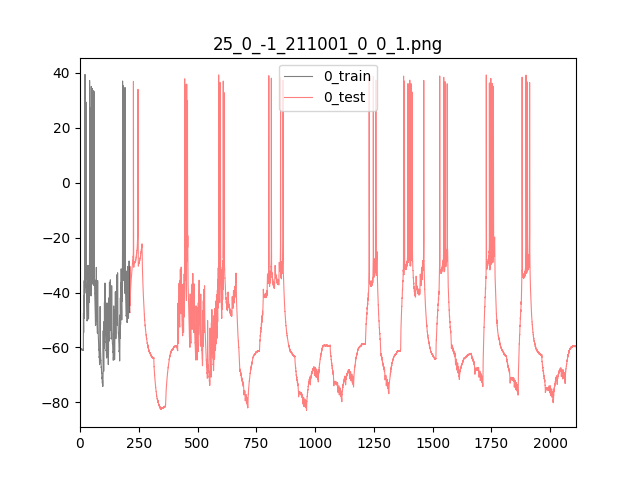
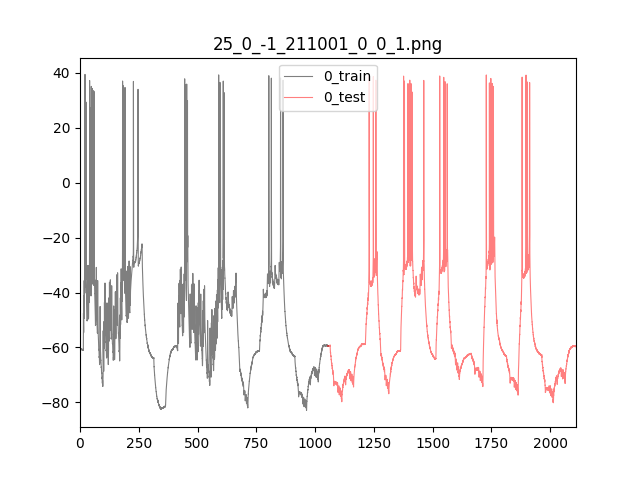
Final graph generation changes for presentation.

diff --git a/src/main.cpp b/src/main.cpp
@@ -708,68 +708,71 @@ main( [[maybe_unused]] int argc, [[maybe_unused]] char * argv[] ) {
         { 0, 0 }, { 1, 0 }, { 2, 0 }
     };
     const bool                 use_const{ true };
-    const T /*alpha{ 5E-2 },*/ constant{ 1 };
-    const UTIL::Index d{ 2 }, /*k{ 3 }, s{ 5 }, p{ 2 },*/ data_stride{ 4 };
-    const std::vector<UTIL::Index> train_targets{ 1 };
+    const T /*alpha{ 1E-4 },*/ constant{ 1 };
+    const UTIL::Index d{ 2 }, /*k{ 1 }, s{ 1 }, p{ 3 },*/ data_stride{ 4 };
+    const std::vector<UTIL::Index> train_targets{ 1, 2, 3 };
 
-    const std::vector<UTIL::Index> kvals{ 1, 2, 3, 4 },
-        svals{ 1, 2, 3, 4, 5, 6, 7, 8, 9, 10 }, pvals{ 1, 2, 3 };
+    const std::vector<UTIL::Index> kvals{ 1, 2, 3 },
+        svals{ 1,  2,  3,  4,  5,  6,  7,  8,  9,  10,
+               11, 12, 13, 14, 15, 16, 17, 18, 19, 20 },
+        pvals{ 2, 3, 4 };
     const std::vector<T> alphavals{ 10, 1, .1, .01, .001, 0.0001, 0.00001 };
 
     UTIL::Index best_k{ 1 }, best_s{ 1 }, best_p{ 1 }, best_alpha{ 10 };
     T           best_rmse{ 1000000000000. };
 
-    // for ( const auto alpha : alphavals ) {
-    //     for ( const auto k : kvals ) {
-    //         for ( const auto s : svals ) {
-    //             for ( const auto p : pvals ) {
-    //                 std::cout << std::format(
-    //                     "d = {}, k = {}, s = {}, p = {}, alpha = {}\n", d, k,
-    //                     s, p, alpha );
+    for ( const auto alpha : alphavals ) {
+        for ( const auto k : kvals ) {
+            for ( const auto s : svals ) {
+                for ( const auto p : pvals ) {
+                    std::cout << std::format(
+                        "d = {}, k = {}, s = {}, p = {}, alpha = {}\n", d, k, s,
+                        p, alpha );
 
-    //                const auto [train_pair, test_pair] =
-    //                    data_split<T>( data_pool, 0.75, feature_shape,
-    //                                   NVAR::warmup_offset( k, s ),
-    //                                   data_stride, UTIL::Standardizer<T>{} );
-    //                const auto [train_samples, train_labels] = train_pair;
-    //                const auto [test_warmup, test_labels] = test_pair;
+                    const auto [train_pair, test_pair] =
+                        data_split<T>( data_pool, 0.75, feature_shape,
+                                       NVAR::warmup_offset( k, s ), data_stride,
+                                       UTIL::Standardizer<T>{} );
+                    const auto [train_samples, train_labels] = train_pair;
+                    const auto [test_warmup, test_labels] = test_pair;
 
-    //                NVAR::NVAR<T, NVAR::nonlinear_t::poly> test(
-    //                    train_samples.rightCols( d ),
-    //                    train_labels.rightCols( d ), d, k, s, p, use_const,
-    //                    constant, train_targets, UTIL::L2Solver<T>( alpha ),
-    //                    false );
+                    NVAR::NVAR<T, NVAR::nonlinear_t::poly> test(
+                        train_samples.rightCols( d ),
+                        train_labels.rightCols( d ), d, k, s, p, use_const,
+                        constant, train_targets, UTIL::L2Solver<T>( alpha ),
+                        false );
 
 
-    //                const auto forecast{ test.forecast(
-    //                    test_warmup.rightCols( d ),
-    //                    test_labels.rightCols( d ) ) };
+                    const auto forecast{ test.forecast(
+                        test_warmup.rightCols( d ),
+                        test_labels.rightCols( d ) ) };
 
-    //                const auto rmse{ UTIL::RMSE<T>(
-    //                    forecast, test_labels.rightCols( d ) ) };
-    //                std::cout << "rmse: " << rmse << std::endl;
-    //                if ( rmse( 1 ) < best_rmse ) {
-    //                    best_rmse = rmse( 1 );
-    //                    best_k = k;
-    //                    best_s = s;
-    //                    best_p = p;
-    //                    best_alpha = alpha;
-    //                }
-    //            }
-    //        }
-    //    }
-    //}
+                    const auto rmse{ UTIL::RMSE<T>(
+                        forecast, test_labels.rightCols( d ) ) };
+                    std::cout << "rmse: " << rmse << std::endl;
+                    if ( rmse( 1 ) < best_rmse ) {
+                        best_rmse = rmse( 1 );
+                        best_k = k;
+                        best_s = s;
+                        best_p = p;
+                        best_alpha = alpha;
+                    }
+                }
+            }
+        }
+    }
 
-    const auto [train_pair, test_pair] = data_split<T>(
-        data_pool, 0.75, feature_shape, NVAR::warmup_offset( best_k, best_s ),
-        data_stride, UTIL::Standardizer<T>{} );
+    const auto [train_pair, test_pair] =
+        data_split<T>( data_pool, 0.75, feature_shape,
+                       NVAR::warmup_offset( best_k, best_s /*k, s*/ ),
+                       data_stride, UTIL::Standardizer<T>{} );
     const auto [train_samples, train_labels] = train_pair;
     const auto [test_warmup, test_labels] = test_pair;
 
     NVAR::NVAR<T, NVAR::nonlinear_t::poly> test(
         train_samples.rightCols( d ), train_labels.rightCols( d ), d, best_k,
-        best_s, best_p, use_const, constant, train_targets,
-        UTIL::L2Solver<T>( best_alpha ), true, { "I", "V" },
+        best_s, best_p, /*k, s, p,*/ use_const, constant, train_targets,
+        UTIL::L2Solver<T>( best_alpha /*alpha*/ ), true, { "I", "V" },
         "../data/forecast_data/tmp.csv" );
 
     const auto forecast{ test.forecast( test_warmup.rightCols( d ),
@@ -911,9 +914,9 @@ main( [[maybe_unused]] int argc, [[maybe_unused]] char * argv[] ) {
     const auto doublescroll_test_data{ doublescroll_test_csv.atv() };
 
     const bool                     use_const{ false };
-    const UTIL::Index              d2{ 3 }, k2{ 3 }, s2{ 2 }, p2{ 3 };
+    const UTIL::Index              d2{ 3 }, k2{ 2 }, s2{ 2 }, p2{ 3 };
     const T                        alpha{ 1E-1 }, constant{ 1 };
-    const std::vector<UTIL::Index> targets{ 0, 2 };
+    const std::vector<UTIL::Index> targets{ 2 };
     std::cout << std::format(
         "doublescroll_train_data: {}\n",
         UTIL::mat_shape_str<double, -1, -1>( doublescroll_train_data ) );

diff --git a/data/gen_train_test_data.py b/data/gen_train_test_data.py
@@ -1,37 +1,52 @@
 import os
 from sklearn.model_selection import KFold, TimeSeriesSplit, ShuffleSplit, RepeatedKFold
+import matplotlib as mpl
 import matplotlib.pyplot as plt
 import re
 import numpy as np
 
 
-show_plots = False
+mpl.rcParams["font.family"] = "Times New Roman"
+mpl.rcParams["axes.titlesize"] = 24
+mpl.rcParams["axes.labelsize"] = 20
+mpl.rcParams["xtick.labelsize"] = 16
+mpl.rcParams["ytick.labelsize"] = 16
+mpl.rcParams["xtick.direction"] = "in"
+mpl.rcParams["ytick.direction"] = "in"
+mpl.rcParams["legend.fontsize"] = 12
+
+
+show_plots = True
+save_figs = False
 
 
 def plot_data(splits, xmin=None, xmax=None, show=True, filename=None, savefig=False):
     for i in splits:
         plt.plot(
-            splits[i]["train"]["X"][:, 0],
+            splits[i]["train"]["X"][:, 0]/100,
             splits[i]["train"]["X"][:, -1],
             linestyle="-",
             linewidth=0.8,
             label=f"{i}_train",
-            alpha=0.5,
+            #label="Training data",
             color="k",
         )
         plt.plot(
-            splits[i]["test"]["X"][:, 0],
+            splits[i]["test"]["X"][:, 0]/100,
             splits[i]["test"]["X"][:, -1],
             linestyle="-",
             linewidth=0.8,
             label=f"{i}_test",
-            alpha=0.5,
+            #label="Testing data",
             color="r",
         )
-    if filename:
+    if filename and not savefig:
         plt.title(filename)
+    #plt.xlabel("Time / ms")
+    #plt.ylabel("Measured Voltage / mV")
     plt.xlim(xmin, xmax)
     plt.legend()
+    plt.tight_layout()
     if savefig and filename:
         path = os.path.join(os.getcwd(), "graphs", filename.split(".")[0])
         plt.savefig(path)
@@ -214,7 +229,7 @@ files = os.listdir(source_dir)
 pattern = re.compile(r"^(?P<N>[\d]+)_(?P<filetype>[\w]+).csv$")
 file_nos = [17, *range(21, 31)]
 cv = simple_split
-cv_args = [1, 0.1]
+cv_args = [1, 0.5]
 for j, file in enumerate(files):
     match = pattern.match(file)
     if not match:
@@ -266,11 +281,11 @@ for j, file in enumerate(files):
         measured_splits,
         xmin=measured_min,
         xmax=measured_max,
-        show=True,
+        show=show_plots,
         filename=get_filename(
             N, 0, None, len(measured_data["t"]), 0, 0, cv_args[0], "png"
         ),
-        savefig=True,
+        savefig=save_figs,
     )
     integrated_min = min(integrated_data["t"])
     integrated_max = max(integrated_data["t"])
@@ -278,11 +293,11 @@ for j, file in enumerate(files):
         integrated_splits,
         xmin=integrated_min,
         xmax=integrated_max,
-        show=True,
+        show=show_plots,
         filename=get_filename(
             N, 0, None, len(integrated_data["t"]), 1, 0, cv_args[0], "png"
         ),
-        savefig=True,
+        savefig=save_figs,
     )
 
     for i in measured_splits:

diff --git a/data/combine_dat_files.py b/data/combine_dat_files.py
@@ -3,9 +3,12 @@ import re
 import numpy as np
 import matplotlib as mpl
 import matplotlib.pyplot as plt
+from matplotlib.gridspec import GridSpec
+
+
 mpl.rcParams["font.family"] = "Times New Roman"
 mpl.rcParams["axes.titlesize"] = 24
-mpl.rcParams["axes.labelsize"] = 28
+mpl.rcParams["axes.labelsize"] = 20
 mpl.rcParams["xtick.labelsize"] = 16
 mpl.rcParams["ytick.labelsize"] = 16
 mpl.rcParams["xtick.direction"] = "in"
@@ -93,24 +96,40 @@ for N in sorted(file_types["N"]):
 
     figure_name = os.path.join(os.getcwd(), "graphs", f"{N}_measured_v_integrated")
 
-    fig = plt.figure(figsize=(12, 4))
-    ax1 = fig.add_subplot(111)
+    #fig = plt.figure(figsize=(12, 4))
+    #ax1 = fig.add_subplot(111)
     #ax1 = fig.add_subplot(211)
     #ax2 = fig.add_subplot(212)
     # plt.title(str(int(N)))
     # plt.title("Measured / Integrated Membrane Potential")
-    min = 13.5
-    max = 14.7
-    ax1.plot(
-        (times / 100) - min,
-        #(times / 100,
-        #mi_data[:],
-        mv_data[transient_sz:],
-        linestyle="-",
-        label="Measured Voltage",
-        color="k",
-        linewidth=0.8,
-    )
+
+    fig = plt.figure(figsize=(16, 8))
+
+    gs = GridSpec(3, 1)
+
+    ax1 = fig.add_subplot(gs[0:2,:])
+    ax2 = fig.add_subplot(gs[2:,:])
+
+    ax1.plot(times / 100, mv_data[transient_sz:], linestyle="-", color="b", linewidth=0.8)
+    ax2.plot(times / 100, mi_data[transient_sz:], linestyle="-", color="r", linewidth=0.8)
+    
+    ax1.set_ylabel("Measured Voltage / mV")
+    ax2.set_xlabel("Time / ms")
+    ax2.set_ylabel("Injected current / mA")
+    
+    ax1.set_xlim(0, 0.7)
+    ax2.set_xlim(0, 0.7)
+
+    #min = 13.5
+    #max = 14.7
+    #ax1.plot(
+    #    (times / 100) - min,
+    #    mv_data[transient_sz:],
+    #    linestyle="-",
+    #    label="Measured Voltage",
+    #    color="k",
+    #    linewidth=0.8,
+    #)
     #ax1.plot(
     #    times / 100,
     #    mv_data[transient_sz:],
@@ -119,12 +138,12 @@ for N in sorted(file_types["N"]):
     #    color="k",
     #    linewidth=0.8,
     #)
-    dt_ = max - min
-    ax1.set_xlim(0, dt_)
+    #dt_ = max - min
+    #ax1.set_xlim(0, dt_)
     #ax2.set_xlim(0, 10)
     #ax1.set_ylim(-50, 45)
-    ax1.set_xlabel("Injected Current / mA", fontname="Times New Roman", fontsize=18)
-    ax1.set_ylabel("Measured Voltage / mV", fontname="Times New Roman", fontsize=18)
+    #ax1.set_xlabel("Injected Current / mA", fontname="Times New Roman", fontsize=18)
+    #ax1.set_ylabel("Measured Voltage / mV", fontname="Times New Roman", fontsize=18)
     #ax2.set_xlabel("Time / ms", fontname="Times New Roman", fontsize=14)
     #ax2.set_ylabel("Injected Current / mA", fontname="Times New Roman", fontsize=14)
 

diff --git a/data/plot_forecast.py b/data/plot_forecast.py
@@ -83,15 +83,18 @@ assert len(forecast_keys) == len(label_keys)
 
 times = forecast_data["t"]
 
-fig, ax2 = plt.subplots(1, 1, figsize=(12, 4))
+fig, ax2 = plt.subplots(1, 1, figsize=(12, 8))
 
 #ax1.plot(times, forecast_data["I"], linestyle="", marker="o", markersize=1, color="r")
 #ax1.plot(times, forecast_data["I'"], linestyle="-", linewidth=0.8, color="k")
 #ax1.set_ylabel("Standardized Current / mA")
-ax2.plot(times, forecast_data["V"], linestyle="", marker="o", markersize=1, color="r")
-ax2.plot(times, forecast_data["V'"], linestyle="-", linewidth=0.8, color="k")
+ax2.plot(times/100, forecast_data["V"], linestyle="", marker="o", markersize=1, color="r")
+ax2.plot(times/100, forecast_data["V'"], linestyle="-", linewidth=0.8, color="k")
 ax2.set_xlabel("Time / ms")
 ax2.set_ylabel("Standardized Voltage / mV")
+ymin = min(forecast_data["V'"]) - 0.1 * abs(min(forecast_data["V'"]))
+ymax = max(forecast_data["V'"]) + 0.1 * abs(max(forecast_data["V'"]))
+ax2.set_ylim(ymin, ymax)
 
 plt.tight_layout()
 plt.show()

diff --git a/data/distribution.py b/data/distribution.py
@@ -76,7 +76,7 @@ n = 17
 nbins = 30
 
 fig, (ax1, ax2, ax3) = plt.subplots(
-    1, 3, figsize=(12, 4), sharey="row", constrained_layout=True
+    1, 3, figsize=(12, 8), sharey="row"
 )
 
 ax1.hist(csv_data[n]["default"]["measured"]["V"], bins=nbins, edgecolor="black")
@@ -85,10 +85,10 @@ ax1.set_xlabel("Measured Voltage Distribution / mV")
 ax1.set_ylabel("Frequency")
 
 ax2.hist(csv_data[n]["normalized"]["measured"]["V"], bins=nbins, edgecolor="black")
-ax2.set_xlabel("Normalized Voltage / mV")
+ax2.set_xlabel("Normalized Voltage")
 
 ax3.hist(csv_data[n]["standardized"]["measured"]["V"], bins=nbins, edgecolor="black")
-ax3.set_xlabel("Standardized Voltage / mV")
+ax3.set_xlabel("Standardized Voltage")
 ax3.set_xticks([-2, 0, 2, 4])
 
 plt.tight_layout()

diff --git a/data/plot_doublescroll.py b/data/plot_doublescroll.py
@@ -91,7 +91,7 @@ ax4.plot(forecast_data["t"], forecast_data["v2"], label="forecast_v2", marker="o
 ax4.plot(forecast_data["t"], forecast_data["v2'"], label="test_v2", linewidth=0.8, color="k")
 
 ax6.set_ylabel("I (Arbitrary Units)")
-#ax6.set_ylim(max(forecast_data["I"])+0.1*max(forecast_data["I"]), min(forecast_data["I"]) + 0.1 * min(forecast_data["I"]))
+ax6.set_ylim(max(forecast_data["I"])+0.1*max(forecast_data["I"]), min(forecast_data["I"]) + 0.1 * min(forecast_data["I"]))
 ax6.plot(forecast_data["t"], forecast_data["I"], label="forecast_I", marker="o", markersize=1, color="r", linestyle="")
 ax6.plot(forecast_data["t"], forecast_data["I'"], label="test_I", linewidth=0.8, color="k")
 ax6.set_xlabel("Time (Arbitrary Units)")
